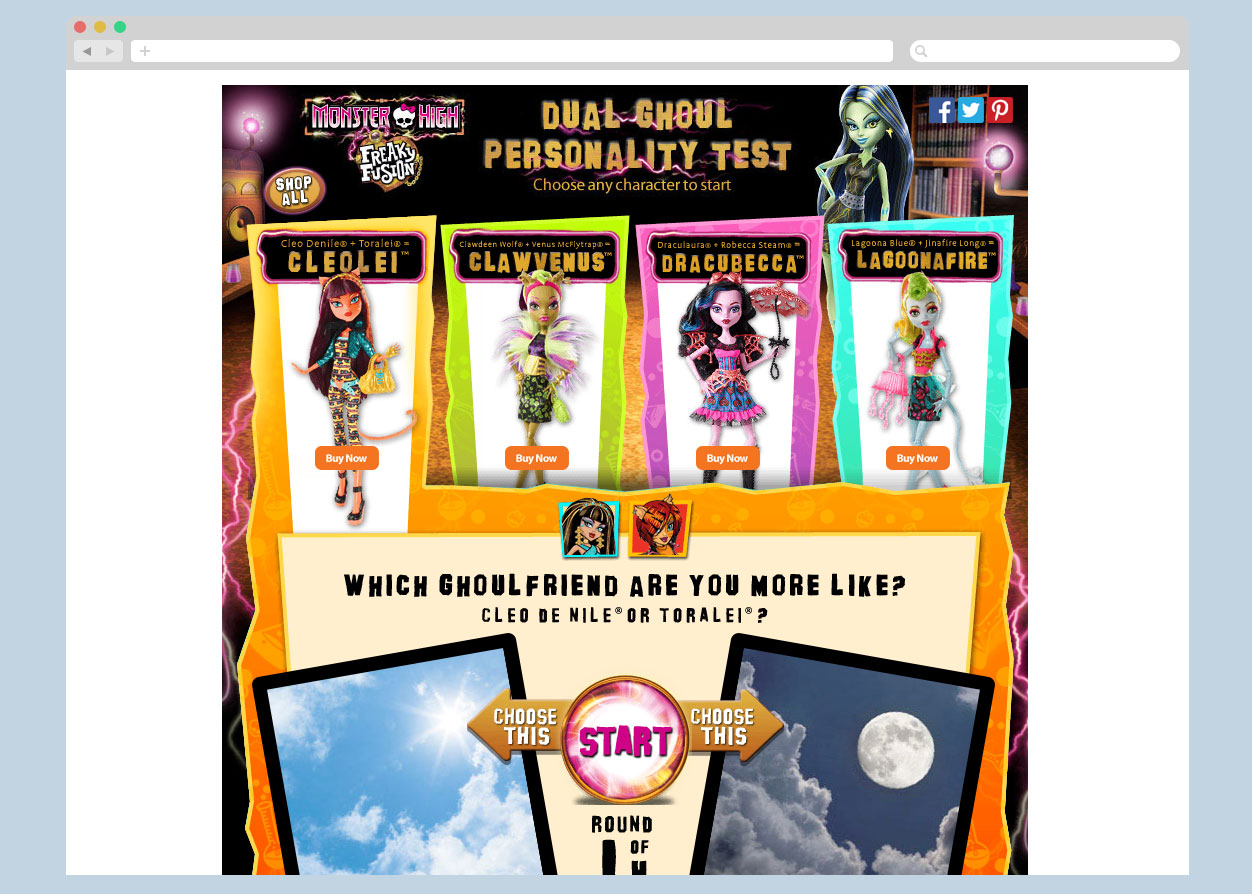
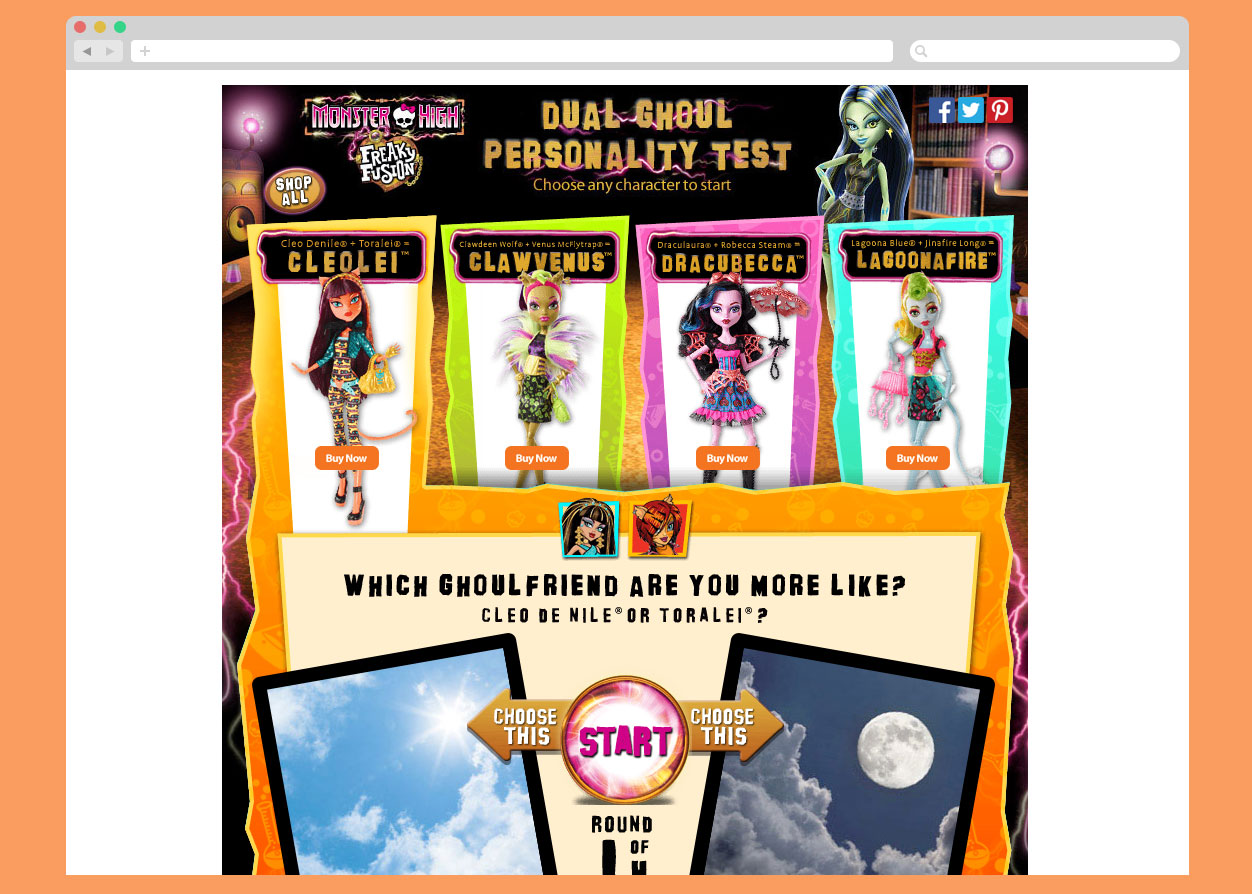
Added images, css, gitignore

Changed region(s): [[0.0, 0.0, 1.0, 1.0]]

diff --git a/public/stylesheets/set1.css b/public/stylesheets/set1.css
@@ -1,4 +1,4 @@
-@font-face {
+/*@font-face {
 	font-weight: normal;
 	font-style: normal;
 	font-family: 'feathericons';
@@ -7,7 +7,7 @@
 		url('../fonts/feathericons/feathericons.woff?-8is7zf') format('woff'),
 		url('../fonts/feathericons/feathericons.ttf?-8is7zf') format('truetype'),
 		url('../fonts/feathericons/feathericons.svg?-8is7zf#feathericons') format('svg');
-}
+}*/
 
 .grid {
 	position: relative;
@@ -28,7 +28,7 @@
 	max-width: 100%;
 /*	max-height: 400px;*/
 /*	width: 48%;*/
-	background: #3085a3;
+	background: #ff9966;
 	text-align: center;
 	cursor: pointer;
 }
@@ -101,13 +101,15 @@
 
 figure.effect-lily img {
 	max-width: none;
-	width: -webkit-calc(100% + 50px);
-	width: calc(100% + 50px);
-	opacity: 0.7;
+/*	width: -webkit-calc(100% + 50px);
+	width: calc(100% + 50px);*/
+	width: -webkit-calc(100%);
+	width: calc(100%);
+	opacity: 1;
 	-webkit-transition: opacity 0.35s, -webkit-transform 0.35s;
 	transition: opacity 0.35s, transform 0.35s;
-	-webkit-transform: translate3d(-40px,0, 0);
-	transform: translate3d(-20px,0,0);
+/*	-webkit-transform: translate3d(-40px,0, 0);
+	transform: translate3d(-20px,0,0);*/
 }
 
 figure.effect-lily figcaption {
@@ -135,13 +137,20 @@ figure.effect-lily h2 {
 }
 
 figure.effect-lily p {
-	color: rgba(255,255,255,0.8);
+	color: black;
+	font-weight: bold;
 	opacity: 0;
 	-webkit-transition: opacity 0.2s, -webkit-transform 0.35s;
 	transition: opacity 0.2s, transform 0.35s;
 }
 
-figure.effect-lily:hover img,
+figure.effect-lily:hover img {
+
+	opacity: 0;
+}
+
+
+
 figure.effect-lily:hover p {
 	opacity: 1;
 }
